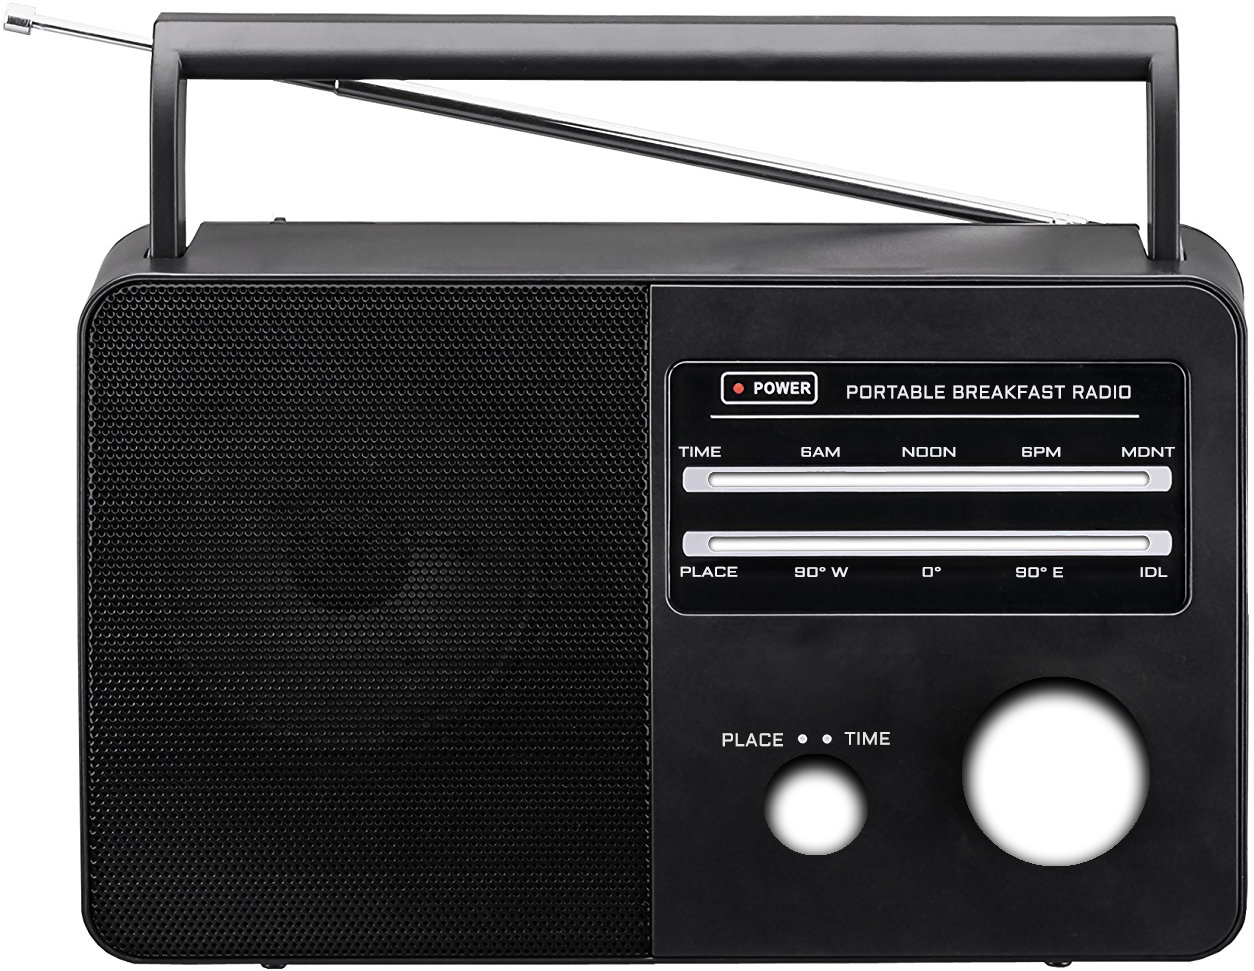
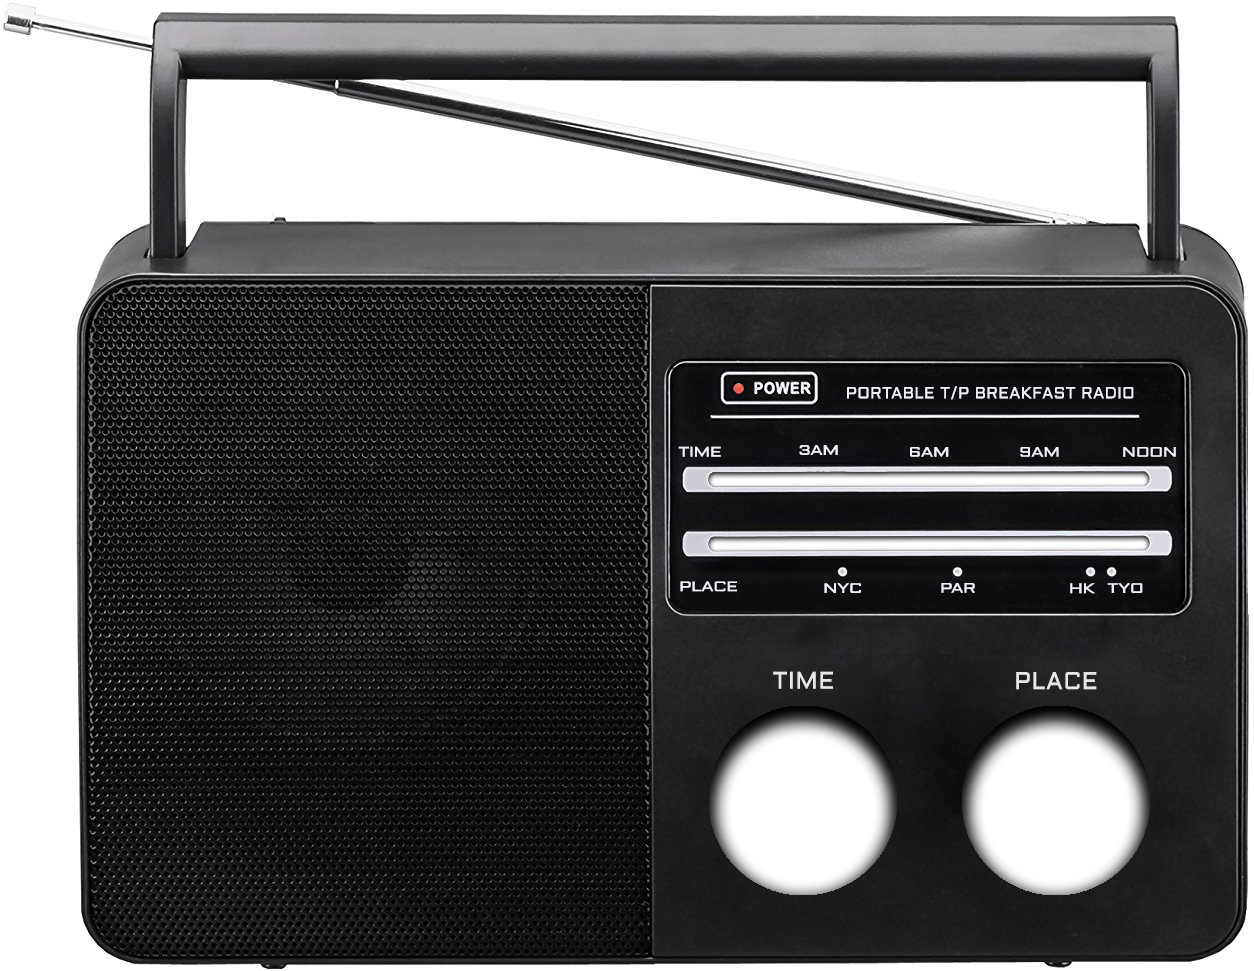
make time / place knobs, update labels

diff --git a/js/app.js b/js/app.js
@@ -20,53 +20,56 @@ var App = (function() {
 
     this.files = MANIFEST.slice(0);
 
-    this.$knob = $("#knob");
-    this.$knobListener = $("#knob-listener");
-    this.$switch = $("#switch");
-    this.$bar = $("#bar");
-
-    this.knobAngle = 0;
-    this.timeMode = true;
+    this.$knobTime = $("#knob-time");
+    this.$knobPlace = $("#knob-place");
+    this.$barTime = $("#bar-time");
+    this.$barPlace = $("#bar-place");
 
     this.loadListeners();
   };
 
-  App.prototype.loadListeners = function(){
+  App.prototype.loadKnobListener = function(knobListenerId, callback){
     var _this = this;
 
     // listen to knob
-    var $knobListener = this.$knobListener;
+    var $knobListener = $(knobListenerId);
+    var $knob = $($knobListener.attr("data-target"));
     var knobListener = $knobListener[0];
     var knobRegion = new ZingTouch.Region(knobListener);
+    var knobAngle = parseFloat($knobListener.attr("data-angle"));
     var onKnobRotate = function(e){
-      _this.onKnobRotate(e.detail.distanceFromLast);
+      knobAngle += e.detail.distanceFromLast;
+      knobAngle = clamp(knobAngle, 0, 360);
+      callback(knobAngle/360.0);
     };
     knobRegion.bind(knobListener, 'rotate', onKnobRotate);
+  };
 
-    var onSwitchClick = function(e){
-      _this.onSwitchClick();
+  App.prototype.loadListeners = function(){
+    var _this = this;
+    var onTimeChange = function(percent){
+      _this.onTimeChange(percent);
     };
-    this.$switch.on('click', onSwitchClick);
+    var onPlaceChange = function(percent){
+      _this.onPlaceChange(percent);
+    };
+
+    this.loadKnobListener("#knob-time-listener", onTimeChange);
+    this.loadKnobListener("#knob-place-listener", onPlaceChange);
   };
 
-  App.prototype.onKnobRotate = function(angleDelta){
-    // update knob UI
-    var knobAngle = this.knobAngle + angleDelta;
-    knobAngle = clamp(knobAngle, 0, 360);
-    this.$knob.css('transform', 'rotate(' + knobAngle + 'deg)');
-
+  App.prototype.onTimeChange = function(percent){
+    // update knob ui
+    this.$knobTime.css('transform', 'rotate(' + (percent*360) + 'deg)');
     // update slider bar ui
-    var percent = knobAngle / 360.0;
-    this.$bar.css('left', (percent*100) + '%');
-
-    this.knobAngle = knobAngle;
+    this.$barTime.css('left', (percent*100) + '%');
   };
 
-  App.prototype.onSwitchClick = function(){
-    var $switch = this.$switch;
-
-    $switch.toggleClass('switched');
-    this.timeMode = !$switch.hasClass("switched");
+  App.prototype.onPlaceChange = function(percent){
+    // update knob ui
+    this.$knobPlace.css('transform', 'rotate(' + (percent*360) + 'deg)');
+    // update slider bar ui
+    this.$barPlace.css('left', (percent*100) + '%');
   };
 
   App.prototype.render = function(){

diff --git a/css/app.css b/css/app.css
@@ -32,6 +32,7 @@ body {
   top: 50%;
   margin-top: -19.36vw;
   background: #232325;
+  overflow: hidden;
 }
 .slider,
 .bar,
@@ -52,9 +53,12 @@ body {
 }
 .slider {
   width: 35.247%;
-  height: 10.299%;
+  height: 5.1495%;
   top: 47.88%;
   left: 56.539%;
+}
+.slider.place {
+  top: 53.0295%;
 }
 .slider .bar {
   background-image: url(../img/bar.png);
@@ -67,9 +71,13 @@ body {
 .knob-listener {
   width: 19.13876%;
   height: 24.71679%;
-  top: 68.28%;
-  left: 74.8%;
+  top: 70.958%;
+  left: 54.466%;
   background-image: url(../img/knob.png);
+}
+.knob.place,
+.knob-listener.place {
+  left: 74.641%;
 }
 .knob-listener {
   background: none;
@@ -79,18 +87,6 @@ body {
   cursor: -webkit-grab;
   cursor: grab; */
   cursor: move;
-}
-.switch {
-  width: 7.496%;
-  height: 10.299%;
-  top: 78.373%;
-  left: 61.324%;
-  background-image: url(../img/switch.png);
-  transform: rotate(5deg);
-  transition: transform 0.5s ease-in-out;
-}
-.switch.switched {
-  transform: rotate(-20deg);
 }
 
 .text-container {
@@ -106,4 +102,12 @@ body {
 .text-container p {
   font-size: 1.6rem;
   line-height: 1.2;
+}
+.hidden {
+  position:absolute;
+  left:-10000px;
+  top:auto;
+  width:1px;
+  height:1px;
+  overflow:hidden;
 }

diff --git a/index.html b/index.html
@@ -15,13 +15,21 @@
   <div id="app" class="app">
 
     <div class="radio-container">
-      <div class="slider">
-        <div id="bar" class="bar" style="left: 0"></div>
+      <div class="slider time">
+        <div id="bar-time" class="bar" style="left: 50%"></div>
       </div>
-      <div id="knob" class="knob"></div>
+      <div class="slider place">
+        <div id="bar-place" class="bar" style="left: 30.435%"></div>
+      </div>
+      <div id="knob-time" class="knob time" style="transform: rotate(180deg);"></div>
+      <div id="knob-place" class="knob place" style="transform: rotate(109.566deg);"></div>
       <div class="radio"></div>
-      <a href="#switch" id="switch" class="switch"></a>
-      <a href="#rotate" id="knob-listener" class="knob-listener"></a>
+      <a href="#change-time" id="knob-time-listener" data-angle="180" class="knob-listener time">
+        <span class="hidden">Rotate this knob to change time</span>
+      </a>
+      <a href="#change-place" id="knob-place-listener" data-angle="109.566" class="knob-listener place">
+        <span class="hidden">Rotate this knob to change place</span>
+      </a>
     </div>
 
     <div class="text-container">
